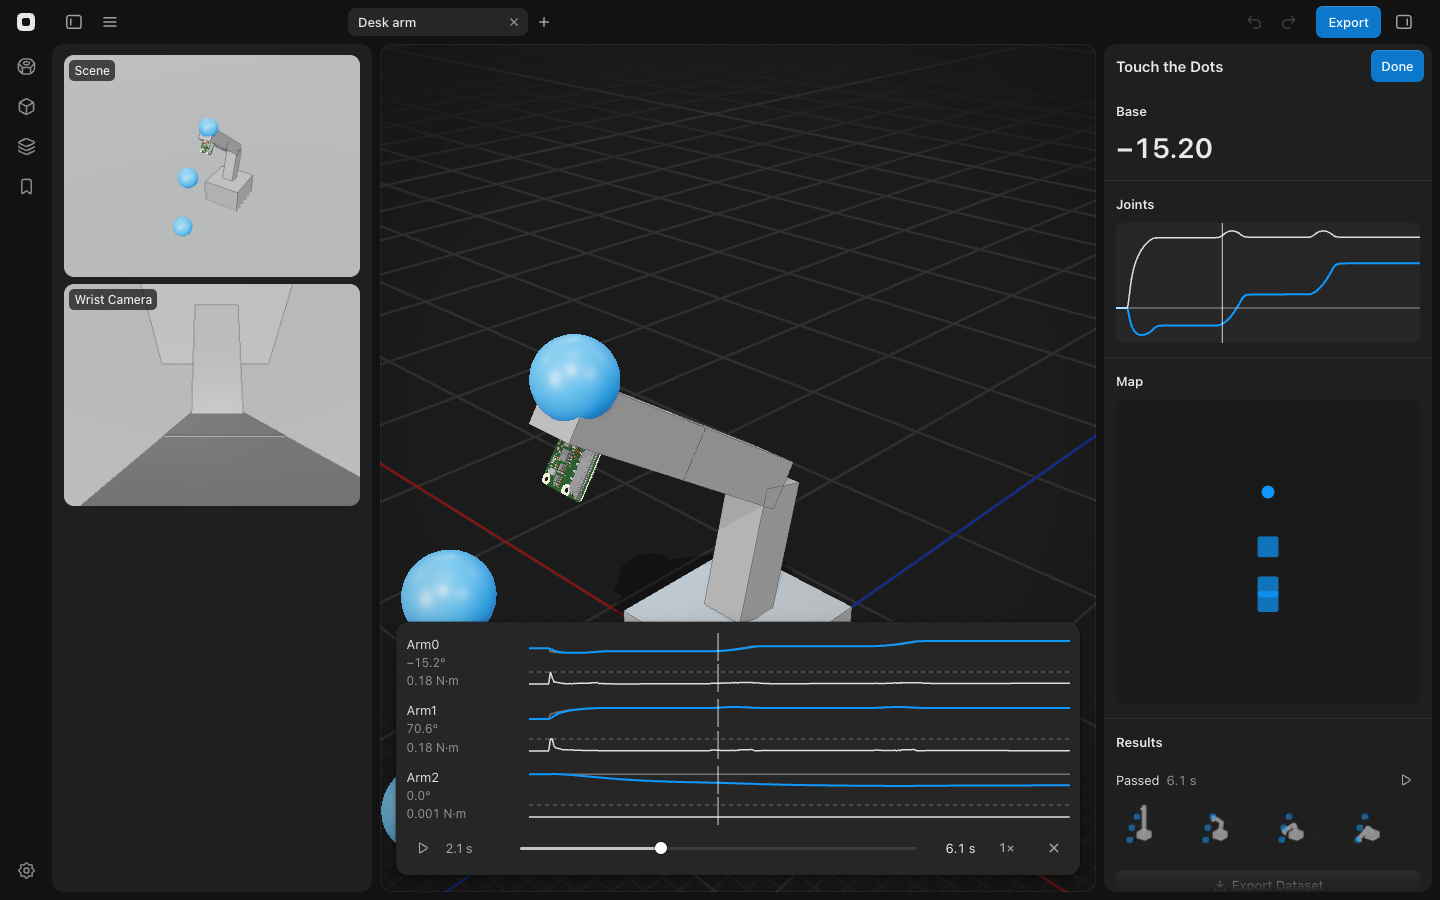
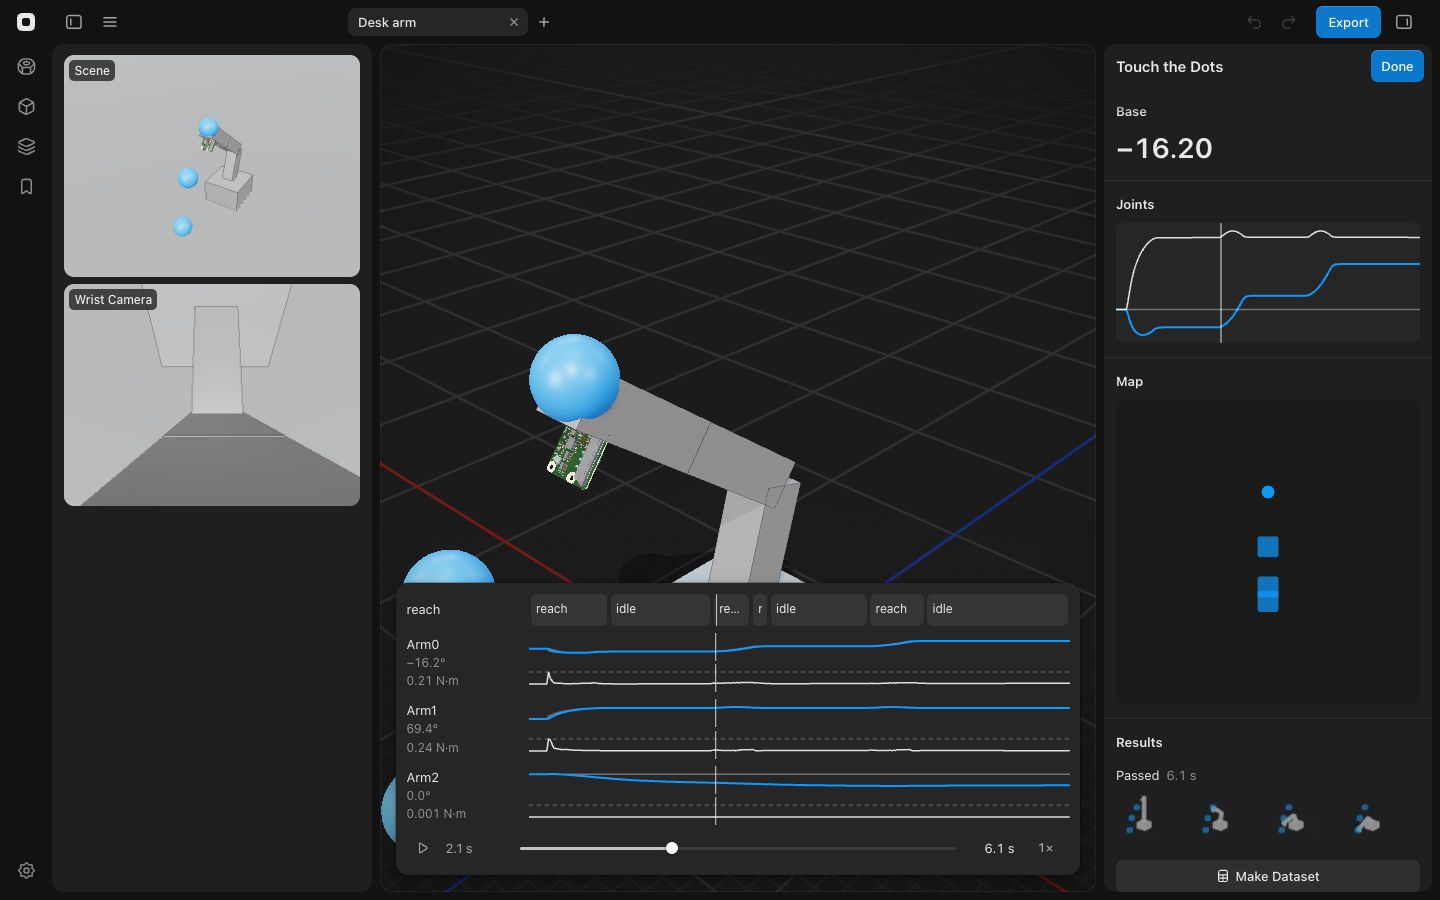
Move the try-labeling e2e into its own file, and fix the help articles it made untrue
Check's e2e-changed job failed in two places.

- The new test read files['data/chunk-000/file-000.parquet'] from passedDatasetFiles without inDataset. The zip keys start with the dataset's folder, so the lookup found nothing and hyparquet threw "Offset is outside the bounds of the DataView". Its CI retry then ran on the first attempt's leftover state and stopped at 7 segments, not 8.
- The test sat at the end of e2e/tries.e2e.test.ts. tools/e2e-changed.mjs gives the lines added after a test to that test, so it picked "makes a dataset from a search" and ran it alone. That test relies on the tries the first test in the file records, so it timed out on the Library ▸ Tries row.

The labeling test now lives in e2e/tryLabels.e2e.test.ts with its own app and reads the parquet through inDataset. e2e/tries.e2e.test.ts is back to main. The test is declared through an itUnlessWindows const, because the picker doesn't recognise it.skipIf(...)( and would have skipped it. The cases guide names the new file.

Three help articles the change made untrue are fixed:
- make-a-dataset-from-tries said a dataset holds no segments, labels or tags, and that an imported try has no outcome.
- keep-a-robot-session-as-a-try said a session never shows Passed or Missed.
- play-a-try-through-its-console said to loop by dragging across any lane. Only a joint's lane loops. Its two timeline screenshots are recaptured with the segment lane.
[…]

diff --git a/e2e/tries.e2e.test.ts b/e2e/tries.e2e.test.ts
@@ -1,20 +1,13 @@
-import { parquetReadObjects } from 'hyparquet';
 import { afterAll, beforeAll, describe, expect, it } from 'vitest';
 import { fixtureRobots } from '../src/sim/fixtures/robots';
 import { DEFAULT_PROJECT } from '../src/types/robotics';
-import { loadFixtureRobot, passedDatasetFiles } from './driveChecks';
 import { openApp, openPlayTab, partCount, shown, type App } from './harness';
 
 let app: App;
 
-type Segment = { from: number; to: number; label: string };
-
 type Studio = {
   simState: () => { drive: string; activeCase: string | null; tries: Array<{ id: string }> };
   load: (r: unknown) => void;
-  referenceTry: () => Promise<void>;
-  tryLabels: () => { id: string | null; segments: Segment[] };
-  storedTry: (id: string) => Promise<{ labels?: { tags: string[]; segments: Segment[] } } | null>;
   datasets: () => Array<{ name: string; query: string | null; members: string[] }>;
 };
 
@@ -184,78 +177,4 @@ describe('Tries and datasets in the Library', () => {
     await expect.poll(() => tiles().count()).toBe(matching + 2);
     expect(app.errors).toEqual([]);
   });
-});
-
-const segmentLabels = () =>
-  app.page.evaluate(() =>
-    (window as unknown as { __studio: Studio }).__studio.tryLabels().segments.map((s) => s.label),
-  );
-
-const parquetRows = (bytes: Buffer) => parquetReadObjects({ file: new Uint8Array(bytes).buffer });
-
-describe('Labelling a try', () => {
-  itUnlessWindows(
-    'splits a pick-and-place try into labelled segments, splits one with S, tags it and exports the subtasks',
-    async () => {
-      await loadFixtureRobot(app.page, 'arm-6dof');
-      await openPlayTab(app.page, 'Cases');
-      await button('New Case').click();
-
-      const card = app.page.locator(shown('[data-testid="new-case"]'));
-
-      await card.locator('[role=radio]', { hasText: 'Pick Up a Block' }).click();
-      await card.locator('button', { hasText: 'Make Case' }).click();
-      await expect.poll(async () => (await simState()).activeCase).toBe('pick-up-a-block');
-      await app.page.evaluate(() => (window as unknown as { __studio: Studio }).__studio.referenceTry());
-      await expect.poll(async () => (await simState()).tries.length, { timeout: 60000 }).toBe(1);
-
-      const id = (await simState()).tries[0].id;
-      const row = app.page.locator(shown('[data-testid="try-row"]')).first();
-
-      await row.click({ button: 'right' });
-      await app.page.getByRole('menuitem', { name: 'Tag…' }).click();
-      await app.page.getByLabel('Tags').fill('red block, demo');
-      await app.page.getByLabel('Tags').press('Enter');
-
-      const stored = () =>
-        app.page.evaluate((tryId) => (window as unknown as { __studio: Studio }).__studio.storedTry(tryId), id);
-
-      await expect.poll(async () => (await stored())?.labels?.tags).toEqual(['red block', 'demo']);
-
-      await row.click();
-      await expect.poll(() => app.page.getByTestId('segment').count(), { timeout: 30000 }).toBeGreaterThan(2);
-
-      const verbs = (await segmentLabels()).map((label) => label.split(' ')[0]);
-
-      expect(verbs.filter((v) => ['reach', 'grasp', 'lift', 'release'].includes(v))).toEqual(
-        expect.arrayContaining(['reach', 'grasp', 'lift', 'release']),
-      );
-      expect(verbs.indexOf('grasp')).toBeLessThan(verbs.lastIndexOf('lift'));
-      expect((await segmentLabels()).find((label) => label.startsWith('grasp'))).toMatch(/^grasp \S/);
-
-      const before = (await segmentLabels()).length;
-      const first = app.page.getByTestId('segment').first();
-      const box = (await first.boundingBox())!;
-
-      await app.page.mouse.click(box.x + box.width / 2, box.y + box.height / 2);
-      await app.page.keyboard.press('s');
-      await expect.poll(async () => (await segmentLabels()).length).toBe(before + 1);
-      await expect.poll(async () => (await stored())?.labels?.segments.length).toBe(before + 1);
-
-      await app.page.keyboard.press('Escape');
-      await expect.poll(() => app.page.getByTestId('try-timeline').count()).toBe(0);
-
-      const files = await passedDatasetFiles(app.page);
-      const [frame] = (await parquetRows(files['data/chunk-000/file-000.parquet'])) as Array<{
-        language_persistent: Array<{ role: string; style: string; content: string; timestamp: number }>;
-      }>;
-      const subtasks = frame.language_persistent.filter((r) => r.style === 'subtask');
-
-      expect(subtasks).toHaveLength(before + 1);
-      expect(subtasks[0]).toMatchObject({ role: 'assistant', timestamp: 0 });
-      expect(subtasks.map((r) => r.content)).toEqual(expect.arrayContaining([expect.stringMatching(/^grasp /)]));
-      expect(app.errors).toEqual([]);
-    },
-    180000,
-  );
 });

diff --git a/e2e/tryLabels.e2e.test.ts b/e2e/tryLabels.e2e.test.ts
@@ -1,0 +1,101 @@
+import { parquetReadObjects } from 'hyparquet';
+import { afterAll, beforeAll, expect, it } from 'vitest';
+import { inDataset, loadFixtureRobot, passedDatasetFiles } from './driveChecks';
+import { openApp, openPlayTab, shown, type App } from './harness';
+
+let app: App;
+
+type Segment = { from: number; to: number; label: string };
+
+type Studio = {
+  simState: () => { activeCase: string | null; tries: Array<{ id: string }> };
+  referenceTry: () => Promise<void>;
+  tryLabels: () => { id: string | null; segments: Segment[] };
+  storedTry: (id: string) => Promise<{ labels?: { tags: string[]; segments: Segment[] } } | null>;
+};
+
+const simState = () => app.page.evaluate(() => (window as unknown as { __studio: Studio }).__studio.simState());
+
+const segmentLabels = () =>
+  app.page.evaluate(() =>
+    (window as unknown as { __studio: Studio }).__studio.tryLabels().segments.map((s) => s.label),
+  );
+
+const button = (name: string) => app.page.locator(shown('button'), { hasText: name }).first();
+
+const parquetRows = (bytes: Buffer) => parquetReadObjects({ file: new Uint8Array(bytes).buffer });
+
+beforeAll(async () => {
+  app = await openApp();
+}, 120000);
+
+afterAll(async () => {
+  await app?.close();
+});
+
+const itUnlessWindows = it.skipIf(process.platform === 'win32');
+
+itUnlessWindows(
+  'splits a pick-and-place try into labelled segments, splits one with S, tags it and exports the subtasks',
+  async () => {
+    await loadFixtureRobot(app.page, 'arm-6dof');
+    await openPlayTab(app.page, 'Cases');
+    await button('New Case').click();
+
+    const card = app.page.locator(shown('[data-testid="new-case"]'));
+
+    await card.locator('[role=radio]', { hasText: 'Pick Up a Block' }).click();
+    await card.locator('button', { hasText: 'Make Case' }).click();
+    await expect.poll(async () => (await simState()).activeCase).toBe('pick-up-a-block');
+    await app.page.evaluate(() => (window as unknown as { __studio: Studio }).__studio.referenceTry());
+    await expect.poll(async () => (await simState()).tries.length, { timeout: 60000 }).toBe(1);
+
+    const id = (await simState()).tries[0].id;
+    const row = app.page.locator(shown('[data-testid="try-row"]')).first();
+
+    await row.click({ button: 'right' });
+    await app.page.getByRole('menuitem', { name: 'Tag…' }).click();
+    await app.page.getByLabel('Tags').fill('red block, demo');
+    await app.page.getByLabel('Tags').press('Enter');
+
+    const stored = () =>
+      app.page.evaluate((tryId) => (window as unknown as { __studio: Studio }).__studio.storedTry(tryId), id);
+
+    await expect.poll(async () => (await stored())?.labels?.tags).toEqual(['red block', 'demo']);
+
+    await row.click();
+    await expect.poll(() => app.page.getByTestId('segment').count(), { timeout: 30000 }).toBeGreaterThan(2);
+
+    const verbs = (await segmentLabels()).map((label) => label.split(' ')[0]);
+
+    expect(verbs.filter((v) => ['reach', 'grasp', 'lift', 'release'].includes(v))).toEqual(
+      expect.arrayContaining(['reach', 'grasp', 'lift', 'release']),
+    );
+    expect(verbs.indexOf('grasp')).toBeLessThan(verbs.lastIndexOf('lift'));
+    expect((await segmentLabels()).find((label) => label.startsWith('grasp'))).toMatch(/^grasp \S/);
+
+    const before = (await segmentLabels()).length;
+    const first = app.page.getByTestId('segment').first();
+    const box = (await first.boundingBox())!;
+
+    await app.page.mouse.click(box.x + box.width / 2, box.y + box.height / 2);
+    await app.page.keyboard.press('s');
+    await expect.poll(async () => (await segmentLabels()).length).toBe(before + 1);
+    await expect.poll(async () => (await stored())?.labels?.segments.length).toBe(before + 1);
+
+    await app.page.keyboard.press('Escape');
+    await expect.poll(() => app.page.getByTestId('try-timeline').count()).toBe(0);
+
+    const files = inDataset(await passedDatasetFiles(app.page));
+    const [frame] = (await parquetRows(files['data/chunk-000/file-000.parquet'])) as Array<{
+      language_persistent: Array<{ role: string; style: string; content: string; timestamp: number }>;
+    }>;
+    const subtasks = frame.language_persistent.filter((r) => r.style === 'subtask');
+
+    expect(subtasks).toHaveLength(before + 1);
+    expect(subtasks[0]).toMatchObject({ role: 'assistant', timestamp: 0 });
+    expect(subtasks.map((r) => r.content)).toEqual(expect.arrayContaining([expect.stringMatching(/^grasp /)]));
+    expect(app.errors).toEqual([]);
+  },
+  180000,
+);

diff --git a/docs/guide/cases.md b/docs/guide/cases.md
@@ -186,7 +186,7 @@ A try's clock starts at the newest frame's time when it begins (`sim.latestStats
 - **By hand.** The timeline's segment lane (`SegmentLane.tsx`) sits above the joint lanes, the label at the playhead in its name column. Dragging the edge between two segments moves it (`moveBoundary`, each side keeps a frame), S splits at the playhead, ⌫ merges the chosen segment (or the one at the playhead) into the one before, and a double-click or right-click ▸ Rename renames it with the one rename field; right-click ▸ Tag… tags the segment. Each edit is one step of the open try's own history (`segmentHistory.ts`, 50 steps), undone with ⌘Z while the timeline has focus (§11).
 - **Tags.** Tag… on a tile's menu (the whole selection when the tile is in it), a Results row's menu or a segment's menu opens a `FloatingField` filled with the tags every chosen try shares; the typed list replaces those and adds to the rest (`tagTries` in `src/workspace/tagTries.ts`), so 50 tries are tagged in one write. Tag names are data, never copy.
 - **Test hooks:** `__studio.tryLabels()` (the open try's segments, flags, tags and outcome) and `__studio.storedTry(id)`.
-- **Tests:** `tryLabels.test.ts` (split, merge, undo, 50 tries tagged, Mark refused on a judged try, labels round-trip), `segments.test.ts` (the arm-6dof pick try, a leader-arm try on its gripper alone, a quadruped's walk, turn and stand, a wave event, MIDI beats, the same try twice, the worker), `segmentInput.test.ts`, `qualityFlags.test.ts` (a limit hit on arm-3dof), `tryJudge.test.ts` (an imported Touch the Dots try judged by contract), `tryLabelPass.test.ts`, `searchIndex.test.ts` (tags and instructions found) and `e2e/tries.e2e.test.ts`, which records Pick Up a Block's reference on arm-6dof, tags it from its Results menu, opens its timeline, checks the segment labels through `__studio`, splits one with S and reads the subtasks from the exported v3 parquet.
+- **Tests:** `tryLabels.test.ts` (split, merge, undo, 50 tries tagged, Mark refused on a judged try, labels round-trip), `segments.test.ts` (the arm-6dof pick try, a leader-arm try on its gripper alone, a quadruped's walk, turn and stand, a wave event, MIDI beats, the same try twice, the worker), `segmentInput.test.ts`, `qualityFlags.test.ts` (a limit hit on arm-3dof), `tryJudge.test.ts` (an imported Touch the Dots try judged by contract), `tryLabelPass.test.ts`, `searchIndex.test.ts` (tags and instructions found) and `e2e/tryLabels.e2e.test.ts`, which records Pick Up a Block's reference on arm-6dof, tags it from its Results menu, opens its timeline, checks the segment labels through `__studio`, splits one with S and reads the subtasks from the exported v3 parquet.
 
 The filmstrip (`src/cases/filmstrip.ts`, drawn by `filmstrip.worker.ts` on an `OffscreenCanvas`, through `filmstripClient.ts`) projects each part's box and the world's objects at four moments of a try, in the same three-quarter view as captures. The worker draws on a CPU-backed 2D canvas (`willReadFrequently`) and encodes the image type its caller asks for itself (WebP for a try, PNG for `run_case`); the main thread only gets the blob. `useFilmstrip` keeps one strip per try, model and boxes, so the Run Case tries panel and the Simulate tab's Results share a render. Encoding on the main thread (`convertToBlob` on a `bitmaprenderer` canvas) is a synchronous GPU readback. It waits behind every frame the GPU process has queued, and the live sim keeps the viewport and camera feeds rendering after a try. On CI's software GL that blocked the main thread for 0.2 to 7.5 s per strip, long enough that `caseRun.e2e.test.ts` read no try for 30 s and the next test couldn't click a tab. Results list tries worst first. `useFilmstrip` revokes a strip's blob URL only once a newer strip has replaced it on screen (or the row is gone): a re-rendered row that loads a revoked URL logs `net::ERR_FILE_NOT_FOUND`, which fails the Cases e2e.
 

diff --git a/site/content/help/play-a-try-through-its-console.md b/site/content/help/play-a-try-through-its-console.md
@@ -35,16 +35,16 @@ You can play a recorded try in its Case's own cards. The cameras, numbers, plots
 
 ![A running Case with its cameras on the left, and Base, Joints, Map and a passed try under Results on the right](/help/play-a-try-through-its-console/tries.png)
 
-4. Click the try's row. The cards show the try at the playhead, and the timeline opens under the canvas.
+4. Click the try's row. The cards show the try at the playhead, and the timeline opens under the canvas. Its top lane names each step of the try, as in [Label a try](/help/label-a-try).
 5. To move the playhead, click or drag on a plot. The robot, the cameras, the numbers and the timeline follow it.
 
 ![Touch the Dots playing a try at 2.1 s, with the wrist camera, the Base value and the arm at that moment, and the playhead on the Joints plot and the timeline](/help/play-a-try-through-its-console/console.png)
 
 6. To play or pause, press [[Space]].
 7. To play slower or faster, press [ or ]. The speed goes from 0.25× to 4×, and the speed button beside the slider shows the current speed.
-8. To loop part of the try, hold [[⇧]] and drag across a lane of the timeline. Playing repeats that part until you hold [[⇧]] and click a lane.
+8. To loop part of the try, hold [[⇧]] and drag across a joint's lane on the timeline. Playing repeats that part until you hold [[⇧]] and click a joint's lane.
 
-![A loop band across the timeline's lanes, with the playhead inside it](/help/play-a-try-through-its-console/loop.png)
+![A loop band across the timeline's joint lanes, with the playhead inside it](/help/play-a-try-through-its-console/loop.png)
 
 9. To stop playing, click **Done** or press [[Esc]]. You're back in the running Case.
 

diff --git a/site/content/help/make-a-dataset-from-tries.md b/site/content/help/make-a-dataset-from-tries.md
@@ -71,9 +71,9 @@ Above its tries, the dataset shows their total running time and its newest versi
 
 **Note:** Publish to Hugging Face and Train from Tries are available in the desktop app.
 
-Missed tries stay in the dataset, but export, publishing and training leave them out. An [imported try](/help/import-robot-data-as-tries) has no outcome, so it counts as a demonstration. Export, publishing and training also leave out the tries listed under [Tries that export leaves out](#tries-that-export-leaves-out).
+Missed tries stay in the dataset, but export, publishing and training leave them out. A try with no verdict, such as an [imported try](/help/import-robot-data-as-tries) that no Case judged, counts as a demonstration. To leave one out, mark it failed, as in [Label a try](/help/label-a-try). Export, publishing and training also leave out the tries listed under [Tries that export leaves out](#tries-that-export-leaves-out).
 
-A dataset holds whole tries, with no segments, labels or tags. To step through one try, see [Open a try from any scene](/help/open-a-try-from-any-scene).
+Each try keeps its segments and tags, and export writes the segments as subtasks. To step through one try, see [Open a try from any scene](/help/open-a-try-from-any-scene).
 
 The Library lists each dataset under **Datasets** with its number of tries. Click one to open it.
 

diff --git a/site/content/help/keep-a-robot-session-as-a-try.md b/site/content/help/keep-a-robot-session-as-a-try.md
@@ -46,4 +46,6 @@ A session keeps the angles the robot measured and the commands Basecase sent. It
 
 When your computer's camera is on, the session also keeps its video. The video stays on your computer, in the try's folder.
 
-**Note:** Basecase doesn't judge a session, so its tile shows no Passed or Missed. A session opens on the timeline only in the scene it was recorded from.
+An amber warning mark on the tile flags a problem in the recording, such as missing frames. On the timeline, point at the same mark beside the segments to see what happened and when.
+
+**Note:** Basecase judges a session only when a Case in the scene can judge it from what the session recorded, as in [Label a try](/help/label-a-try). Otherwise its tile shows no Passed or Missed until you right-click it and choose **Mark Passed** or **Mark Failed**. A session opens on the timeline only in the scene it was recorded from.
